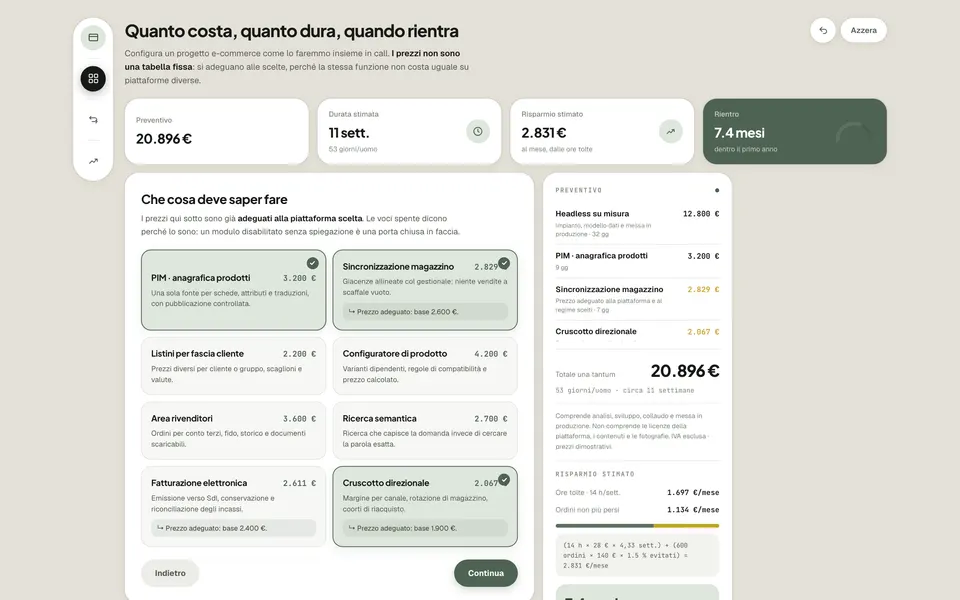
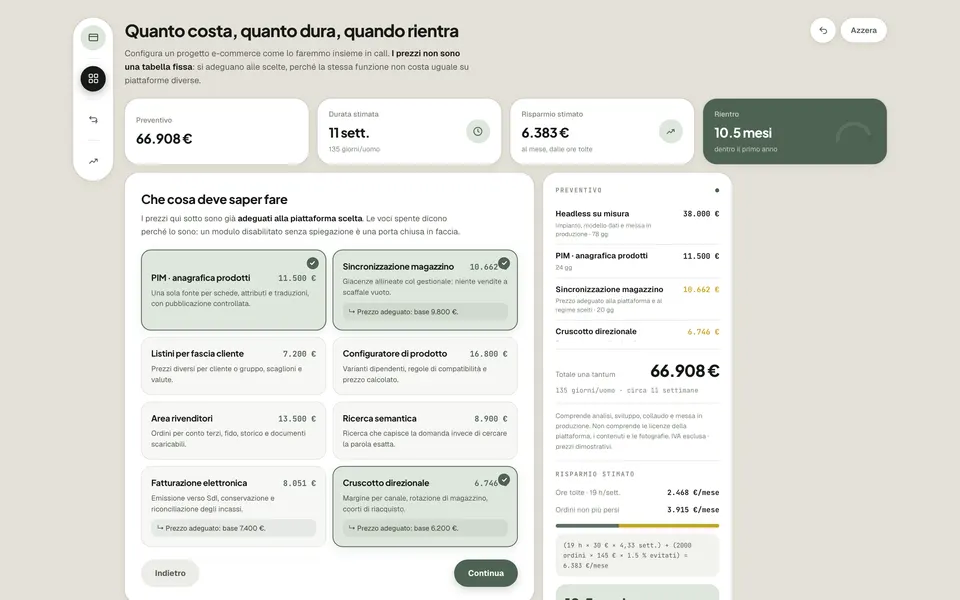
Preventivo & ROI: prezzi e tempi tarati sul mercato italiano vero
I NUMERI DI PRIMA NON REGGEVANO
Un impianto Shopify Plus con personalizzazioni serie chiuso in 18
giorni/uomo, un headless in 32: davanti a chi quei progetti li ha già
comprati, cifre così tolgono credibilità invece di darne. Il problema
non era la tariffa (356-400 €/giorno, plausibile) ma gli IMPEGNI, sotto
di un fattore 2-4.

RICALIBRAZIONE
Tariffa implicita ora intorno ai 480 €/giorno su tutte le voci —
coerente con le agenzie italiane di fascia media (300-400 € il
freelance, 600-800 € le grandi società di consulenza). Impegni portati
a quelli veri: Shopify Plus 32 gg, headless 78 gg, portale B2B 62 gg;
i moduli da 13 a 35 giorni secondo il peso.

Una configurazione tipica (headless + PIM + magazzino + cruscotto) passa
da 20.896 € a 66.908 €, che è il prezzo a cui quel lavoro si vende
davvero in Italia.

IL CALENDARIO NON LO FA UNA PERSONA SOLA
Prima le settimane si ricavavano dividendo i giorni/uomo per 5: implicava
un progetto portato avanti da una persona, e dava date che nessun cliente
crederebbe. Ora si divide per il team tipico (2,5 persone: uno sviluppo
pieno più le quote di design, PM e collaudo). I 135 giorni/uomo della
configurazione tipica diventano 11 settimane di calendario, non 27.
Le due misure restano entrambe a schermo, distinte: «135 giorni/uomo ·
circa 11 settimane».

I NUMERI DELL'ATTIVITÀ, coerenti con chi compra
Chi valuta un progetto da decine di migliaia di euro non fa 600 ordini
al mese: i valori di partenza salgono a 2.000 ordini, 145 € di
[…]

diff --git a/src/components/Sandbox/preview/quote/model.ts b/src/components/Sandbox/preview/quote/model.ts
@@ -11,8 +11,14 @@
    foglio di calcolo regge a lungo: le regole vivono qui, dichiarate e
    leggibili, non sparse dentro i componenti.
 
-   I prezzi sono realistici ma dimostrativi: servono a far vedere come si
-   muove il preventivo, non a impegnare nessuno.
+   I PREZZI. Tarati sul mercato italiano 2026 per uno studio strutturato:
+   la tariffa implicita è intorno ai 480 €/giorno, coerente con le agenzie
+   di fascia media (300-400 € il freelance, 600-800 € le grandi società di
+   consulenza). Gli impegni in giorni sono quelli veri: un impianto Shopify
+   Plus con personalizzazioni serie non si chiude in tre settimane-uomo, e
+   scriverlo sarebbe il primo modo per perdere credibilità davanti a chi
+   quei progetti li ha già comprati. Restano prezzi dimostrativi: servono a
+   far vedere come si muove il preventivo, non a impegnare nessuno.
 ══════════════════════════════════════════════════════════════════════════ */
 
 export type PiattaformaId = "shopify" | "headless" | "portale"
@@ -39,21 +45,21 @@ export const PIATTAFORME: Piattaforma[] = [
     id: "shopify",
     nome: "Shopify Plus",
     sommario: "Il checkout è già risolto e aggiornato da altri: si parte in fretta, si personalizza dentro i binari.",
-    giorni: 18, prezzo: 6400, fattoreIntegrazione: 1.35,
+    giorni: 32, prezzo: 14500, fattoreIntegrazione: 1.35,
     tratti: ["Checkout gestito", "App store maturo", "Vincoli sul dominio dati"],
   },
   {
     id: "headless",
     nome: "Headless su misura",
     sommario: "Frontend e dominio dati sono nostri: nessun vincolo di piattaforma, tutto il peso dell'infrastruttura.",
-    giorni: 32, prezzo: 12800, fattoreIntegrazione: 0.85,
+    giorni: 78, prezzo: 38000, fattoreIntegrazione: 0.85,
     tratti: ["Modello dati libero", "Prestazioni sotto controllo", "Richiede presidio tecnico"],
   },
   {
     id: "portale",
     nome: "Portale B2B riservato",
     sommario: "Niente vetrina pubblica: listini per fascia, fido, ordini ricorrenti e agenti.",
-    giorni: 26, prezzo: 9800, fattoreIntegrazione: 0.95,
+    giorni: 62, prezzo: 29500, fattoreIntegrazione: 0.95,
     tratti: ["Prezzi per cliente", "Fido e scoperto", "Ordini ricorrenti"],
   },
 ]
@@ -85,8 +91,8 @@ export const MODULI: Modulo[] = [
     id: "pim",
     nome: "PIM · anagrafica prodotti",
     sommario: "Una sola fonte per schede, attributi e traduzioni, con pubblicazione controllata.",
-    prezzo: 3200, giorni: 9, oreRisparmiate: 6,
-    prezzoPer: { shopify: 3900 },
+    prezzo: 11500, giorni: 24, oreRisparmiate: 6,
+    prezzoPer: { shopify: 13800 },
   },
   {
     id: "magazzino",
@@ -97,45 +103,45 @@ export const MODULI: Modulo[] = [
        `fattoreIntegrazione`. Metterla anche nel listino la conterebbe due
        volte — il primo giro di test lo ha beccato: 13.365 € invece di
        10.530 €. Una causa, un posto solo. */
-    prezzo: 2600, giorni: 7, integra: true, oreRisparmiate: 9,
+    prezzo: 9800, giorni: 20, integra: true, oreRisparmiate: 9,
   },
   {
     id: "listini",
     nome: "Listini per fascia cliente",
     sommario: "Prezzi diversi per cliente o gruppo, scaglioni e valute.",
-    prezzo: 2200, giorni: 6, oreRisparmiate: 3,
+    prezzo: 7200, giorni: 15, oreRisparmiate: 3,
     esclusoDa: { shopify: "Su Shopify i listini per cliente richiedono B2B nativo, fuori da questo perimetro." },
   },
   {
     id: "configuratore",
     nome: "Configuratore di prodotto",
     sommario: "Varianti dipendenti, regole di compatibilità e prezzo calcolato.",
-    prezzo: 4200, giorni: 11, richiede: "pim", oreRisparmiate: 4,
+    prezzo: 16800, giorni: 35, richiede: "pim", oreRisparmiate: 4,
   },
   {
     id: "rivenditori",
     nome: "Area rivenditori",
     sommario: "Ordini per conto terzi, fido, storico e documenti scaricabili.",
-    prezzo: 3600, giorni: 10, oreRisparmiate: 7,
+    prezzo: 13500, giorni: 28, oreRisparmiate: 7,
     esclusoDa: { shopify: "L'area rivenditori con fido non si regge sulle app di piattaforma." },
   },
   {
     id: "ricerca-ai",
     nome: "Ricerca semantica",
     sommario: "Ricerca che capisce la domanda invece di cercare la parola esatta.",
-    prezzo: 2700, giorni: 8, richiede: "pim", oreRisparmiate: 2,
+    prezzo: 8900, giorni: 18, richiede: "pim", oreRisparmiate: 2,
   },
   {
     id: "fatturazione",
     nome: "Fatturazione elettronica",
     sommario: "Emissione verso SdI, conservazione e riconciliazione degli incassi.",
-    prezzo: 2400, giorni: 7, integra: true, oreRisparmiate: 8,
+    prezzo: 7400, giorni: 15, integra: true, oreRisparmiate: 8,
   },
   {
     id: "analytics",
     nome: "Cruscotto direzionale",
     sommario: "Margine per canale, rotazione di magazzino, coorti di riacquisto.",
-    prezzo: 1900, giorni: 5, integra: true, oreRisparmiate: 4,
+    prezzo: 6200, giorni: 13, integra: true, oreRisparmiate: 4,
   },
 ]
 
@@ -186,12 +192,25 @@ export interface Attivita {
   quotaErrori: number
 }
 
+/* Un'azienda che valuta un progetto da decine di migliaia di euro non fa
+   600 ordini al mese: i valori di partenza sono quelli di una PMI già
+   strutturata. Il costo orario è quello AZIENDALE pieno (RAL + contributi
+   + TFR), non lo stipendio netto — chi firma ragiona su quello. */
 export const ATTIVITA_INIZIALE: Attivita = {
-  ordini: 600, scontrino: 140, oreManuali: 14, costoOrario: 28, quotaErrori: 0.015,
+  ordini: 2000, scontrino: 145, oreManuali: 30, costoOrario: 30, quotaErrori: 0.015,
 }
 
-/** Tariffa giornaliera usata per tradurre i giorni in una data di consegna. */
-export const GIORNI_PER_SETTIMANA = 5
+export const GIORNI_LAVORATIVI_SETTIMANA = 5
+
+/** Persone che lavorano in parallelo su un progetto tipico: uno sviluppo
+ *  pieno più le quote parziali di design, PM e collaudo. Serve a tradurre
+ *  i giorni/uomo in settimane di calendario — dividere per una persona
+ *  sola darebbe date di consegna che nessuno rispetta, e che nessun
+ *  cliente crederebbe. */
+export const PERSONE_TEAM = 2.5
+
+/** Giorni/uomo assorbiti in una settimana di calendario dal team. */
+export const GIORNI_PER_SETTIMANA = GIORNI_LAVORATIVI_SETTIMANA * PERSONE_TEAM
 
 /* `useGrouping: true` non è ridondante: in italiano il separatore di
    migliaia parte solo da cinque cifre (8200 resta «8200», 11500 diventa

diff --git a/tests/smoke.spec.ts b/tests/smoke.spec.ts
@@ -147,7 +147,7 @@ test.describe("demo preventivo & roi", () => {
 
     /* §1 — su Shopify due moduli sono impossibili, e lo dicono. */
     await page.getByRole("button", { name: /Shopify Plus/ }).click()
-    await expect(totale).toContainText("6.400")
+    await expect(totale).toContainText("14.500")
     await continua.click()
 
     await expect(page.locator('[data-modulo="listini"]')).toBeDisabled()
@@ -159,10 +159,10 @@ test.describe("demo preventivo & roi", () => {
     await expect(page.locator('[data-modulo="pim"]')).toHaveAttribute("data-on", "true")
 
     /* Il magazzino integra, quindi su Shopify costa il 35% in più del
-       listino base (2.600 → 3.510): la rettifica è dichiarata nella scheda,
+       listino base (9.800 → 13.230): la rettifica è dichiarata nella scheda,
        non un arrotondamento nascosto. Applicarla due volte era il difetto
        che questo controllo ha scoperto. */
-    await expect(page.locator('[data-modulo="magazzino"]')).toContainText("3.510")
+    await expect(page.locator('[data-modulo="magazzino"]')).toContainText("13.230")
     await page.locator('[data-modulo="magazzino"]').click()
 
     /* §3 esiste solo perché ora c'è qualcosa da sincronizzare. */
@@ -214,7 +214,7 @@ test.describe("demo preventivo & roi", () => {
     /* Un preset riempie la configurazione in un clic: chi apre la demo non
        deve partire da una pagina bianca. */
     await page.getByRole("button", { name: /Scala e integra/ }).click()
-    await expect(totale).toContainText("20.896")
+    await expect(totale).toContainText("66.908")
 
     /* Il piano nasce dallo stesso impegno del preventivo: le tre rate
        sommano al totale. Un piano di pagamenti che non torna alla cifra
@@ -224,17 +224,17 @@ test.describe("demo preventivo & roi", () => {
     expect(await rate.count()).toBe(3)
     const somma = (await rate.allInnerTexts())
       .reduce((t, x) => t + Number(x.replace(/[^0-9]/g, "")), 0)
-    expect(somma, "le tre rate devono sommare al totale").toBe(20896)
+    expect(somma, "le tre rate devono sommare al totale").toBe(66908)
 
     /* Annulla riporta alla configurazione precedente. */
     await page.locator('[data-modulo="ricerca-ai"]').click()
-    await expect(totale).not.toContainText("20.896")
+    await expect(totale).not.toContainText("66.908")
     await page.getByRole("button", { name: "Annulla l'ultima scelta" }).click()
-    await expect(totale).toContainText("20.896")
+    await expect(totale).toContainText("66.908")
 
     /* Due strade a confronto: si mette da parte e si ritrova. */
     await page.getByRole("button", { name: /Metti da parte questa/ }).click()
-    await expect(page.locator(".qt-scen-c")).toContainText("20.896")
+    await expect(page.locator(".qt-scen-c")).toContainText("66.908")
   })
 
 })
